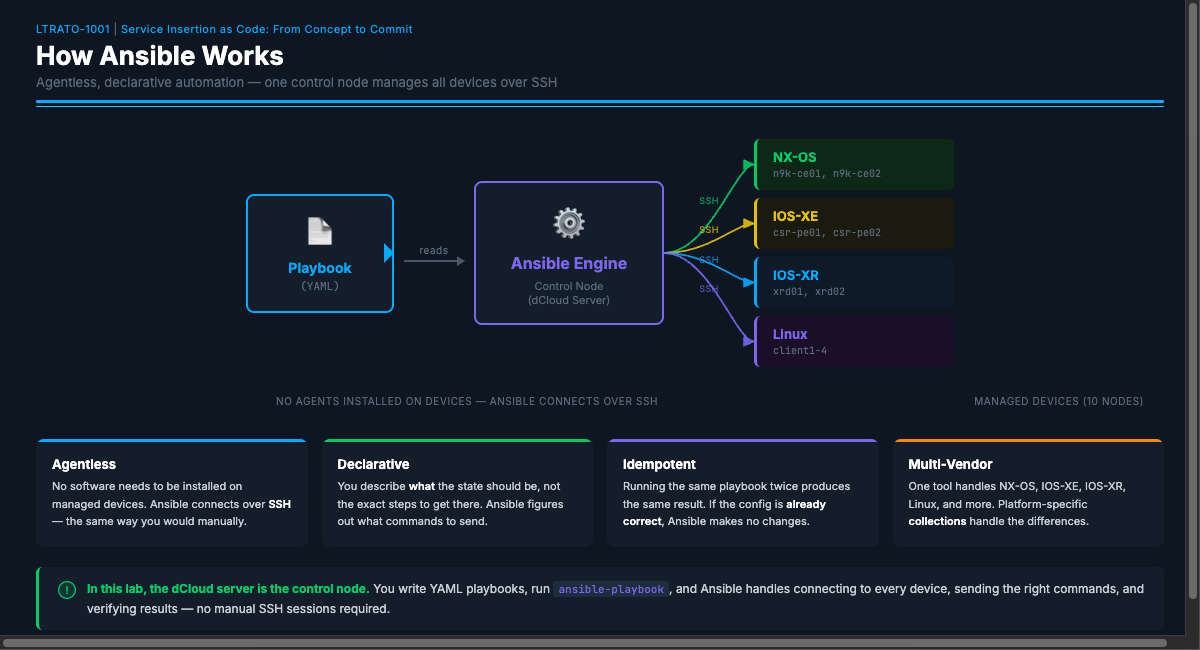
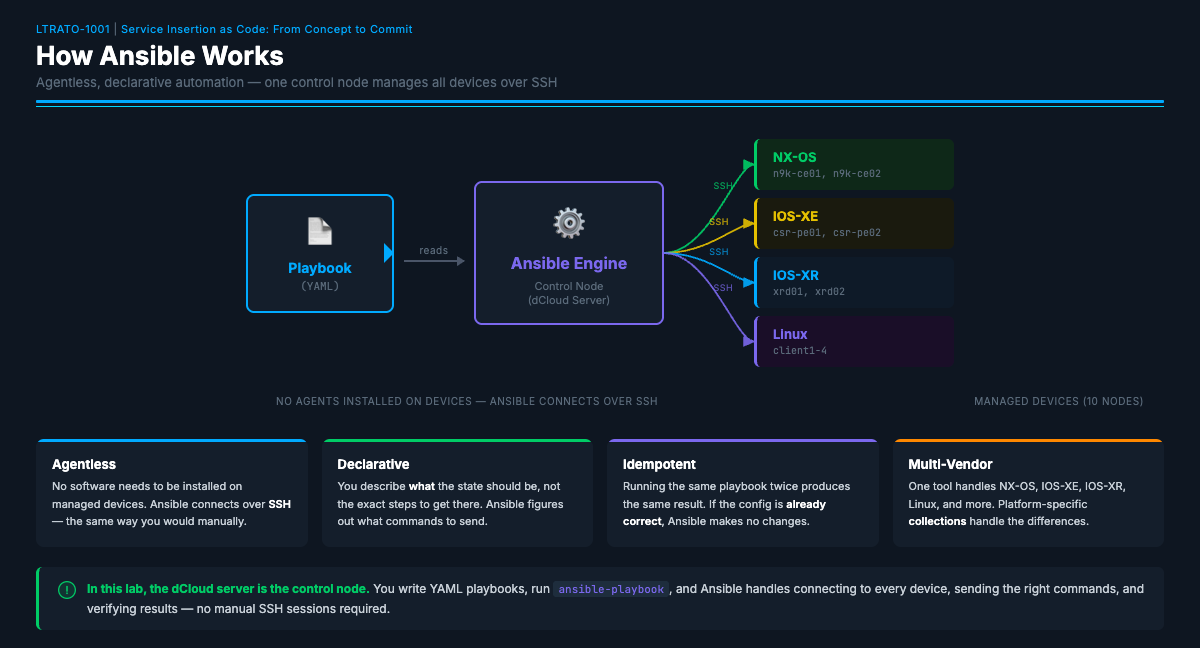
Fix scrollbar and move SSH labels above arrows in ansible-workflow slide

diff --git a/primer-ansible-workflow.html b/primer-ansible-workflow.html
@@ -7,7 +7,7 @@
 <style>
   @import url('https://fonts.googleapis.com/css2?family=Inter:wght@400;500;600;700&family=JetBrains+Mono:wght@400;600&display=swap');
   * { box-sizing: border-box; margin: 0; padding: 0; }
-  body { background: #0e1621; font-family: 'Inter', sans-serif; }
+  body { background: #0e1621; font-family: 'Inter', sans-serif; overflow: hidden; }
 
   .slide {
     background: #0e1621;
@@ -322,10 +322,10 @@ window.addEventListener('load', () => {
 
   const engineEl = document.getElementById('node-engine');
   const devices  = [
-    { id: 'dev-nxos',  color: '#00cc66' },
-    { id: 'dev-iosxe', color: '#e5c000' },
-    { id: 'dev-iosxr', color: '#00aaff' },
-    { id: 'dev-linux', color: '#7b68ee' },
+    { id: 'dev-nxos',  color: '#00cc66', t: 0.55 },
+    { id: 'dev-iosxe', color: '#e5c000', t: 0.50 },
+    { id: 'dev-iosxr', color: '#00aaff', t: 0.50 },
+    { id: 'dev-linux', color: '#7b68ee', t: 0.55 },
   ];
 
   // Arrow marker defs
@@ -351,7 +351,7 @@ window.addEventListener('load', () => {
   const x1 = eR.right - diagR.left;
   const eMidY = (eR.top + eR.bottom) / 2 - diagR.top;
 
-  devices.forEach(({ id, color }) => {
+  devices.forEach(({ id, color, t }) => {
     const devEl = document.getElementById(id);
     const dR = devEl.getBoundingClientRect();
     // Target: left edge of device box, at its vertical midpoint
@@ -371,9 +371,11 @@ window.addEventListener('load', () => {
     line.setAttribute('opacity', '0.9');
     svg.appendChild(line);
 
-    // SSH label — midpoint of curve
-    const lx = (x1 + x2) / 2;
-    const ly = (eMidY + y2) / 2 - 5;
+    // SSH label — sample curve at device-specific t, offset 13px above
+    const mt = 1 - t;
+    // Cubic bezier point: B(t)
+    const lx = mt*mt*mt*x1 + 3*mt*mt*t*cx1 + 3*mt*t*t*cx2 + t*t*t*x2;
+    const ly = mt*mt*mt*eMidY + 3*mt*mt*t*eMidY + 3*mt*t*t*y2 + t*t*t*y2 - 13;
     const text = document.createElementNS('http://www.w3.org/2000/svg', 'text');
     text.setAttribute('x', lx);
     text.setAttribute('y', ly);
